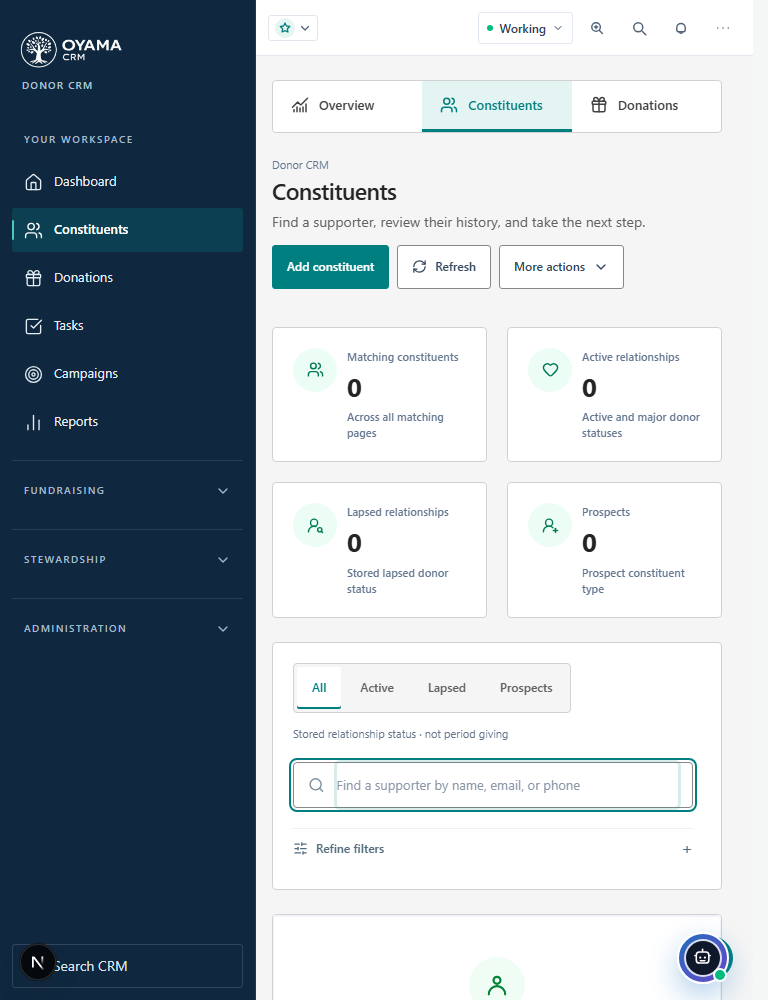
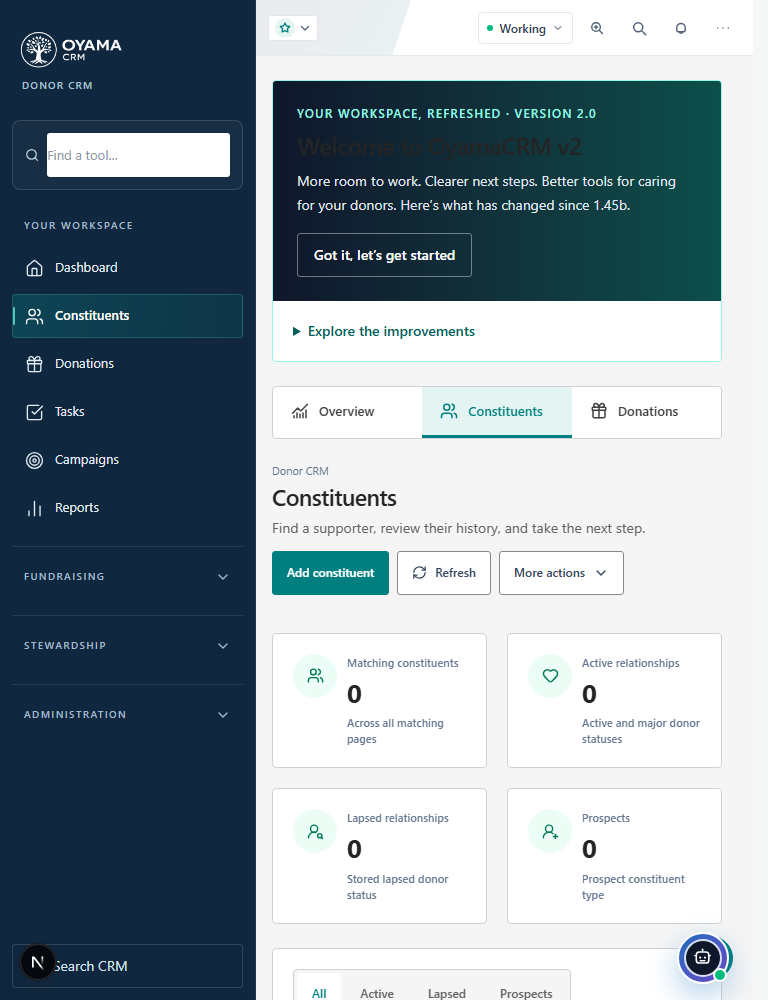
update

diff --git a/app/components/constituents/ConstituentStewardPathsPanel.tsx b/app/components/constituents/ConstituentStewardPathsPanel.tsx
@@ -1,6 +1,6 @@
 "use client";
 
-import { useCallback, useEffect, useMemo, useState } from "react";
+import { useCallback, useEffect, useMemo, useRef, useState } from "react";
 import Link from "next/link";
 import EnrollmentTasks from "./EnrollmentTasks";
 import EnrollmentHistory from "./EnrollmentHistory";
@@ -37,6 +37,8 @@ function formatDueAt(value?: string | null): string {
 
 /** Current Steward Paths and enrollment control for one constituent profile. */
 export default function ConstituentStewardPathsPanel({ constituentId }: { constituentId: string }) {
+  const requestVersion = useRef(0);
+  const enrolling = useRef(false);
   const [templates, setTemplates] = useState<PathTemplate[]>([]);
   const [enrollments, setEnrollments] = useState<PathEnrollment[]>([]);
   const [selectedPathId, setSelectedPathId] = useState("");
@@ -44,29 +46,36 @@ export default function ConstituentStewardPathsPanel({ constituentId }: { consti
   const [loading, setLoading] = useState(true);
   const [saving, setSaving] = useState(false);
   const [error, setError] = useState<string | null>(null);
+  const [loadFailed, setLoadFailed] = useState(false);
   const [notice, setNotice] = useState<string | null>(null);
 
   const load = useCallback(async () => {
+    const request = ++requestVersion.current;
     setLoading(true);
+    setLoadFailed(false);
     setError(null);
     try {
       const [templateRows, enrollmentRows] = await Promise.all([
         apiFetch<PathTemplate[]>("/api/steward-paths/templates"),
         apiFetch<PathEnrollment[]>(`/api/steward-paths/enrollments?constituentId=${encodeURIComponent(constituentId)}&limit=100`),
       ]);
-      const activeTemplates = (Array.isArray(templateRows) ? templateRows : []).filter((path) => path.status === "ACTIVE");
+      if (request !== requestVersion.current) return;
+      const activeTemplates = (Array.isArray(templateRows) ? templateRows : []).filter((path) => path.status === "ACTIVE" && path.steps.some(step => step.isActive));
       setTemplates(activeTemplates);
       setEnrollments(Array.isArray(enrollmentRows) ? enrollmentRows : []);
       setSelectedPathId((current) => current && activeTemplates.some((path) => path.id === current) ? current : activeTemplates[0]?.id ?? "");
     } catch (loadError) {
+      if (request !== requestVersion.current) return;
+      setLoadFailed(true);
       setError(loadError instanceof Error ? loadError.message : "Failed to load Steward Paths.");
     } finally {
-      setLoading(false);
+      if (request === requestVersion.current) setLoading(false);
     }
   }, [constituentId]);
 
   useEffect(() => {
     void load();
+    return () => { requestVersion.current++; };
   }, [load]);
 
   const currentEnrollments = useMemo(
@@ -77,9 +86,10 @@ export default function ConstituentStewardPathsPanel({ constituentId }: { consti
   const isAlreadyEnrolled = Boolean(selectedPath && currentEnrollments.some((enrollment) => enrollment.path.id === selectedPath.id));
 
   async function enroll(): Promise<void> {
-    if (!selectedPath || isAlreadyEnrolled) return;
+    if (!selectedPath || isAlreadyEnrolled || enrolling.current || loading) return;
     if (replaceExisting && currentEnrollments.length > 0 && !window.confirm("Replace all active or paused paths for this constituent? Their current paths will be cancelled.")) return;
 
+    enrolling.current = true;
     setSaving(true);
     setError(null);
     setNotice(null);
@@ -94,24 +104,25 @@ export default function ConstituentStewardPathsPanel({ constituentId }: { consti
     } catch (enrollError) {
       setError(enrollError instanceof Error ? enrollError.message : "Failed to enroll constituent in the selected path.");
     } finally {
+      enrolling.current = false;
       setSaving(false);
     }
   }
 
   return (
-    <section className="rounded-xl border border-slate-200 bg-white p-4 shadow-sm">
+    <section id="steward-paths" className="scroll-mt-24 rounded-xl border border-slate-200 bg-white p-4 shadow-sm">
       <div className="flex items-start justify-between gap-3">
         <div>
           <p className="text-xs font-bold uppercase tracking-wide text-slate-500">Steward Paths</p>
           <p className="mt-1 text-xs text-slate-600">Current and past relationship workflows for this constituent.</p>
         </div>
-        <button type="button" onClick={() => void load()} className="rounded-md border border-slate-300 px-2 py-1 text-[11px] font-semibold text-slate-700 hover:bg-slate-50">Refresh</button>
+        <button type="button" onClick={() => void load()} disabled={loading || saving} className="rounded-md border border-slate-300 px-2 py-1 text-[11px] font-semibold text-slate-700 hover:bg-slate-50">Refresh</button>
       </div>
 
-      {notice ? <p className="mt-3 rounded-md border border-emerald-200 bg-emerald-50 px-2.5 py-2 text-xs text-emerald-800">{notice}</p> : null}
-      {error ? <p className="mt-3 rounded-md border border-rose-200 bg-rose-50 px-2.5 py-2 text-xs text-rose-800">{error}</p> : null}
+      {notice ? <p role="status" className="mt-3 rounded-md border border-emerald-200 bg-emerald-50 px-2.5 py-2 text-xs text-emerald-800">{notice}</p> : null}
+      {error ? <p role="alert" className="mt-3 rounded-md border border-rose-200 bg-rose-50 px-2.5 py-2 text-xs text-rose-800">{error}</p> : null}
 
-      {loading ? <p className="mt-3 text-xs text-slate-500">Loading paths...</p> : (
+      {loading ? <p className="mt-3 text-xs text-slate-500">Loading paths...</p> : loadFailed ? <div className="mt-3 rounded-md border border-amber-200 bg-amber-50 p-3 text-xs text-amber-900"><p>Enrollment information is unavailable. Retry before making changes.</p><button type="button" className="donor-button mt-2" onClick={() => void load()}>Retry loading paths</button></div> : (
         <>
           <Link href={`/tasks?constituentId=${encodeURIComponent(constituentId)}`} className="mt-2 inline-flex min-h-9 items-center text-xs font-semibold text-[var(--crm-accent)] hover:underline">Review this donor’s outstanding and completed tasks →</Link>
           <div className="mt-3 space-y-2">

diff --git a/app/components/layout/ReleaseBanner.tsx b/app/components/layout/ReleaseBanner.tsx
@@ -1,0 +1,37 @@
+"use client";
+
+import { useEffect, useState } from "react";
+import Link from "next/link";
+import { useAuth } from "@/app/components/auth/AuthProvider";
+
+const improvements = [
+  ["A calmer workspace", "More breathing room, clearer navigation, responsive layouts and motion that respects your accessibility preferences."],
+  ["A dashboard built around your day", "Giving trends, new donors, staff reminders and report discovery, plus customizable widget order, visibility and sizes."],
+  ["Tables that work harder", "Spreadsheet-style cell navigation, gridlines, sticky headers, row density controls and clearer selection feedback."],
+  ["Faster donor and gift search", "Search waits for a short typing pause. Enter searches immediately, and filters keep your current scope clear."],
+  ["Easier donor follow-up", "New-donor shortcuts to giving history, tasks and path enrollment; enrollment history and linked tasks help staff see what happened."],
+  ["Reminders within reach", "Staff reminder snooze and dismiss actions, dashboard refresh, and notification refresh when you reconnect or return to the tab."],
+  ["More dependable communications", "Roomier letter and email builders, save overlap guards, preservation of edits made during email saves, clearer publish review and PDF feedback."],
+];
+
+export default function ReleaseBanner() {
+  const { user } = useAuth();
+  const key = user ? `oyama:release:2.0:${user.organizationId}:${user.id}` : null;
+  const [readyKey, setReadyKey] = useState<string | null>(null);
+  const [dismissed, setDismissed] = useState(false);
+  useEffect(() => {
+    if (!key) return;
+    try { setDismissed(localStorage.getItem(key) === "seen"); }
+    catch { setDismissed(false); }
+    setReadyKey(key);
+  }, [key]);
+  if (!key || readyKey !== key) return null;
+  if (dismissed) return <div className="mb-4 flex justify-end"><button type="button" className="text-xs font-semibold text-[var(--crm-accent)] hover:underline" onClick={() => setDismissed(false)}>What’s new in OyamaCRM v2</button></div>;
+  return <section aria-labelledby="release-v2-title" className="mb-6 overflow-hidden rounded-xl border border-teal-200 bg-white shadow-sm">
+    <div className="flex flex-wrap items-start justify-between gap-4 bg-gradient-to-r from-slate-900 to-teal-900 p-6 text-white">
+      <div className="max-w-2xl"><p className="text-xs font-semibold uppercase tracking-widest text-teal-200">Your workspace, refreshed · Version 2.0</p><h2 id="release-v2-title" className="mt-2 text-2xl font-semibold">Welcome to OyamaCRM v2</h2><p className="mt-2 text-sm leading-6 text-slate-200">More room to work. Clearer next steps. Better tools for caring for your donors. Here’s what has changed since 1.45b.</p></div>
+      <button type="button" className="min-h-11 rounded-md border border-white/40 px-4 text-sm font-semibold hover:bg-white/10 focus-visible:outline-2 focus-visible:outline-offset-4" onClick={() => { try { localStorage.setItem(key, "seen"); } catch { /* Dismiss for this session when storage is unavailable. */ } setDismissed(true); }}>Got it, let’s get started</button>
+    </div>
+    <details className="p-5"><summary className="cursor-pointer text-sm font-semibold text-teal-800">Explore the improvements</summary><div className="mt-5 grid gap-6 sm:grid-cols-2 lg:grid-cols-3">{improvements.map(([title, description]) => <div key={title}><h3 className="font-semibold text-slate-900">{title}</h3><p className="mt-2 text-sm leading-6 text-slate-600">{description}</p></div>)}</div><p className="mt-5 text-xs leading-5 text-slate-500">Availability depends on your permissions and organization setup. Scheduled workflow delivery requires a running worker. Mailing schedules and durable batch manifests remain in development.</p><Link href="/settings/about" className="mt-3 inline-block text-sm font-semibold text-teal-800 hover:underline">About this build →</Link></details>
+  </section>;
+}

diff --git a/app/components/layout/TopBar.tsx b/app/components/layout/TopBar.tsx
@@ -1297,15 +1297,15 @@ export default function TopBar({ scrolled = false, donorChromeTint, donorSidebar
 
         <div className={`oyama-reference-topbar-brand relative z-20 hidden h-full ${isDonorEnterpriseChrome ? "w-64" : "w-[520px]"} xl:block`}>
           {isDonorEnterpriseChrome ? (
-            <Link href={homeHref} className="absolute left-5 top-1/2 flex -translate-y-1/2 items-baseline gap-1.5 rounded-[2px] px-1 py-1 text-white transition-colors hover:bg-white/[0.07]" aria-label="Go to OyamaCRM v1.45b home">
+            <Link href={homeHref} className="absolute left-5 top-1/2 flex -translate-y-1/2 items-baseline gap-1.5 rounded-[2px] px-1 py-1 text-white transition-colors hover:bg-white/[0.07]" aria-label="Go to OyamaCRM v2.0 home">
               <span className="text-[15px] font-bold tracking-[-0.035em]">OyamaCRM</span>
-              <span className="rounded-[2px] bg-white/[0.1] px-1.5 py-0.5 text-[10px] font-bold tracking-wide text-[#cfe4fa] ring-1 ring-white/10">v1.45b</span>
+              <span className="rounded-[2px] bg-white/[0.1] px-1.5 py-0.5 text-[10px] font-bold tracking-wide text-[#cfe4fa] ring-1 ring-white/10">v2.0</span>
             </Link>
           ) : (
           <Link href={homeHref} className={`absolute left-8 flex shrink-0 items-center gap-2.5 rounded-2xl px-2 py-1 transition-[top,opacity,background-color,border-color] ${shellMotionClass} hover:opacity-90 ${scrolled ? "top-2.5" : "top-4"}`} aria-label="Go to workspace home">
             <Image
               src={OYAMA_PRODUCT_LOGO}
-              alt="OyamaCRM v1.45b"
+              alt="OyamaCRM v2.0"
               width={260}
               height={74}
               className={`object-contain object-left transition-[height,width,opacity] ${shellMotionClass} ${scrolled ? "h-9 w-[128px]" : "h-11 w-[166px]"}`}
@@ -1336,13 +1336,13 @@ export default function TopBar({ scrolled = false, donorChromeTint, donorSidebar
                 </svg>
               </button>
               {/* ── TopBar Brand ── */}
-              <Link href={homeHref} className={`flex min-w-0 shrink items-center rounded-xl px-1.5 py-1 transition-opacity hover:opacity-90 max-[380px]:px-1 ${isDonorEnterpriseChrome ? "text-white" : ""}`} aria-label="Go to OyamaCRM v1.45b home">
+              <Link href={homeHref} className={`flex min-w-0 shrink items-center rounded-xl px-1.5 py-1 transition-opacity hover:opacity-90 max-[380px]:px-1 ${isDonorEnterpriseChrome ? "text-white" : ""}`} aria-label="Go to OyamaCRM v2.0 home">
                 {isDonorEnterpriseChrome ? (
-                  <span className="inline-flex items-baseline gap-1 whitespace-nowrap text-sm font-bold tracking-[-0.035em] text-white max-[380px]:text-xs">OyamaCRM <span className="text-[9px] font-bold tracking-wide text-emerald-200">v1.45b</span></span>
+                  <span className="inline-flex items-baseline gap-1 whitespace-nowrap text-sm font-bold tracking-[-0.035em] text-white max-[380px]:text-xs">OyamaCRM <span className="text-[9px] font-bold tracking-wide text-emerald-200">v2.0</span></span>
                 ) : (
                   <Image
                     src={OYAMA_PRODUCT_LOGO}
-                    alt="OyamaCRM v1.45b"
+                    alt="OyamaCRM v2.0"
                     width={144}
                     height={48}
                     className="block h-8 w-[116px] object-contain object-left transition-[width,height] duration-200 max-[430px]:w-[96px] max-[380px]:h-7 max-[380px]:w-[76px]"

diff --git a/app/components/layout/DonorMegaMenu.tsx b/app/components/layout/DonorMegaMenu.tsx
@@ -23,12 +23,15 @@ export default function DonorMegaMenu({ chromeTint }: DonorMegaMenuProps) {
   const pathname = usePathname();
   const { user } = useAuth();
   const { qbEnabled } = usePlugins();
+  const [toolSearch, setToolSearch] = useState("");
   const [mobileOpen, setMobileOpen] = useState(false);
   const dialogRef = useRef<HTMLDivElement>(null);
   const groups = useMemo(() => buildDonorDailyNavigation({ qbEnabled }).map((group) => ({
     ...group,
     items: group.items.filter((item) => isDonorNavigationItemVisible(item, user)),
   })).filter((group) => group.items.length), [qbEnabled, user]);
+  const searchTerms = toolSearch.toLowerCase().trim().split(/\s+/).filter(Boolean);
+  const filteredGroups = groups.map(group => ({ ...group, items: group.items.filter(item => searchTerms.every(term => `${item.label} ${item.description ?? ""} ${item.href} ${group.label}`.toLowerCase().includes(term))) })).filter(group => group.items.length);
   const activeItem = resolveDonorNavigationActiveItem(groups, pathname);
 
   useDialogFocus(dialogRef, mobileOpen, () => setMobileOpen(false));
@@ -57,8 +60,13 @@ export default function DonorMegaMenu({ chromeTint }: DonorMegaMenuProps) {
     );
     return (
       <nav aria-label={mobile ? "Mobile Donor CRM" : "Donor CRM"} className="oyama-reference-nav min-h-0 flex-1 space-y-4 overflow-y-auto p-3">
-        {groups.map((group) => group.collapsible ? (
-          <details key={`${group.id}-${pathname}`} open={group.items.some((item) => item.id === activeItem)} className="group border-t border-white/10 pt-2">
+        <div className="donor-tool-search">
+          <label className="sr-only" htmlFor={mobile ? "mobile-tool-search" : "desktop-tool-search"}>Find a Donor CRM tool</label>
+          <div className="flex items-center gap-2"><Search size={16} aria-hidden="true" /><input id={mobile ? "mobile-tool-search" : "desktop-tool-search"} type="search" placeholder="Find a tool…" value={toolSearch} onChange={event => setToolSearch(event.target.value)} onKeyDown={event => { if (event.key === "Escape" && toolSearch) { event.preventDefault(); event.stopPropagation(); setToolSearch(""); } }} /></div>
+          {toolSearch && <p role="status" className="mt-2 text-xs">{filteredGroups.reduce((count, group) => count + group.items.length, 0)} matching tools · <button type="button" onClick={() => setToolSearch("")} className="underline">Clear</button></p>}
+        </div>
+        {filteredGroups.map((group) => group.collapsible ? (
+          <details key={`${group.id}-${pathname}`} open={Boolean(toolSearch.trim()) || group.items.some((item) => item.id === activeItem)} className="group border-t border-white/10 pt-2">
             <summary tabIndex={0} className="flex min-h-11 cursor-pointer list-none items-center justify-between rounded-lg px-3 text-[10px] font-semibold uppercase tracking-[0.14em] text-slate-400 hover:bg-white/5 hover:text-slate-200 focus-visible:outline-none focus-visible:ring-2 focus-visible:ring-emerald-300 [&::-webkit-details-marker]:hidden">
               {group.label}<ChevronDown className="h-4 w-4 transition-transform group-open:rotate-180" aria-hidden="true" />
             </summary>

diff --git a/app/components/settings/AboutPage.tsx b/app/components/settings/AboutPage.tsx
@@ -6,7 +6,7 @@
 import React from "react";
 
 const CURRENT_YEAR = new Date().getFullYear();
-const VERSION = "1.45b";
+const VERSION = "2.0";
 
 /** A soft-ruled section divider with a title. */
 function Section({ title, children }: { title: string; children: React.ReactNode }) {
@@ -35,12 +35,12 @@ export default function AboutPage() {
       {/* ── Header ──────────────────────────────────────────────────── */}
       <div className="flex items-start gap-5">
         <div className="flex-1">
-          <h1 className="text-2xl font-bold text-gray-900">OyamaCRM v1.45b</h1>
+          <h1 className="text-2xl font-bold text-gray-900">OyamaCRM v2.0</h1>
           <p className="mt-1 text-sm text-gray-500">
             Version {VERSION} &nbsp;·&nbsp; Nonprofit CRM Platform
           </p>
           <p className="mt-2 text-sm text-gray-600 leading-relaxed">
-            OyamaCRM v1.45b is an integrated nonprofit management platform covering donor
+            OyamaCRM v2.0 is an integrated nonprofit management platform covering donor
             management, constituent engagement, event management, and AI-powered
             stewardship — built to serve pregnancy centers and nonprofits of every size.
           </p>
@@ -52,7 +52,7 @@ export default function AboutPage() {
         <div className="bg-gray-50 rounded-lg p-4 space-y-1.5">
           <LicenseTerm label="Software Author" value="James Knox" />
           <LicenseTerm label="Copyright" value={`© ${CURRENT_YEAR} James Knox. All rights reserved.`} />
-          <LicenseTerm label="Platform" value="OyamaCRM v1.45b — Nonprofit CRM Platform" />
+          <LicenseTerm label="Platform" value="OyamaCRM v2.0 — Nonprofit CRM Platform" />
           <LicenseTerm label="Version" value={VERSION} />
         </div>
       </Section>
@@ -62,7 +62,7 @@ export default function AboutPage() {
         <div className="bg-green-50 border border-green-200 rounded-lg p-5 space-y-4">
           <div>
             <p className="text-sm font-semibold text-green-800 uppercase tracking-wide">
-              OyamaCRM v1.45b Free Use License — Nonprofit Edition
+              OyamaCRM v2.0 Free Use License — Nonprofit Edition
             </p>
             <p className="mt-1 text-xs text-green-700">Effective for all versions from 1.0.0 onwards</p>
           </div>

diff --git a/app/components/dashboard/NewDonorsWidget.tsx b/app/components/dashboard/NewDonorsWidget.tsx
@@ -37,7 +37,7 @@ export default function NewDonorsWidget({ refreshVersion = 0 }: { refreshVersion
         <p className="text-xs text-slate-500">{data.total.toLocaleString()} new donors</p>
         {!data.items.length ? <p className="py-4 text-sm text-slate-500">No first gifts recorded for this month.</p> : <ul className="max-h-80 divide-y divide-slate-100 overflow-y-auto">{data.items.map((donor) => <li key={donor.id} className="flex justify-between gap-3 py-3 text-sm">
           <Link className="font-semibold text-[var(--crm-accent)] hover:underline" href={`/constituents/${encodeURIComponent(donor.id)}`}>{donor.firstName} {donor.lastName}</Link>
-          <div className="flex flex-wrap justify-end gap-3"><Link className="text-xs font-semibold text-[var(--crm-accent)] hover:underline" href={`/tasks?constituentId=${encodeURIComponent(donor.id)}`}>Follow-ups</Link><Link className="text-xs font-semibold text-[var(--crm-accent)] hover:underline" href={`/donations?constituentId=${encodeURIComponent(donor.id)}&allYears=1`}>Giving history</Link><span className="text-xs text-slate-500">{new Date(donor.firstGiftDate).toLocaleDateString("en-US", { timeZone: "UTC", month: "short", day: "numeric" })}</span></div>
+          <div className="flex flex-wrap justify-end gap-3"><Link className="text-xs font-semibold text-[var(--crm-accent)] hover:underline" href={`/constituents/${encodeURIComponent(donor.id)}#steward-paths`}>Enroll in a path</Link><Link className="text-xs font-semibold text-[var(--crm-accent)] hover:underline" href={`/tasks?constituentId=${encodeURIComponent(donor.id)}`}>Follow-ups</Link><Link className="text-xs font-semibold text-[var(--crm-accent)] hover:underline" href={`/donations?constituentId=${encodeURIComponent(donor.id)}&allYears=1`}>Giving history</Link><span className="text-xs text-slate-500">{new Date(donor.firstGiftDate).toLocaleDateString("en-US", { timeZone: "UTC", month: "short", day: "numeric" })}</span></div>
         </li>)}</ul>}
         {data.totalPages > 1 && <div className="mt-3 flex items-center gap-3 text-xs"><button className="donor-button" disabled={page <= 1} onClick={() => setPage(page - 1)}>Previous</button><span>Page {page} of {data.totalPages}</span><button className="donor-button" disabled={page >= data.totalPages} onClick={() => setPage(page + 1)}>Next</button></div>}
       </>}

diff --git a/app/constituents/page.tsx b/app/constituents/page.tsx
@@ -236,7 +236,7 @@ function ConstituentsWorkspace() {
       </section>
       <CRMFilterBar><div className="donor-browse-filters">
         <div className="donor-browse-filter-heading"><DonorQuickViews label="Constituent quick views" items={([["all", "All"], ["active", "Active"], ["lapsed", "Lapsed"], ["prospects", "Prospects"]] as const).map(([view, label]) => ({ label, active: activeDirectoryView === view, onClick: () => applyDirectoryView(view) }))} /><span className="donor-scope-note">Stored relationship status · not period giving</span></div>
-        <label className="donor-browse-search"><Search size={18} aria-hidden="true" /><span className="sr-only">Search constituents</span><DebouncedSearchInput id="constituent-search" placeholder="Find a supporter by name, email, or phone" value={search} onSearch={(value) => changeFilters({ search: value })} /></label>
+        <label className="donor-browse-search"><Search size={18} aria-hidden="true" /><span className="sr-only">Search constituents</span><DebouncedSearchInput resetKey={params.toString()} id="constituent-search" placeholder="Find a supporter by name, email, or phone" value={search} onSearch={(value) => changeFilters({ search: value })} /></label>
         <DonorFilterPanel count={[typeFilter, statusFilter].filter(Boolean).length}>
           <label>Constituent type<select value={typeFilter} onChange={(event) => changeFilters({ type: event.target.value })}><option value="">All types</option>{CONSTITUENT_TYPES.map((type) => <option key={type} value={type}>{typeLabel(type)}</option>)}</select></label>
           <label>Donor status<select value={statusFilter} onChange={(event) => changeFilters({ status: event.target.value })}><option value="">All statuses</option>{DONOR_STATUSES.map((status) => <option key={status} value={status}>{status === "MAJOR_DONOR" ? "Major donor" : status.charAt(0) + status.slice(1).toLowerCase()}</option>)}</select></label>

diff --git a/app/components/donor-workspace/DonorRecordActions.tsx b/app/components/donor-workspace/DonorRecordActions.tsx
@@ -22,5 +22,5 @@ export default function DonorRecordActions({ label, children }: { label: string;
     const bounds = button.current!.getBoundingClientRect(); const height = Math.min(420, window.innerHeight - 24);
     const top = bounds.bottom + height + 8 <= window.innerHeight ? bounds.bottom + 6 : Math.max(8, bounds.top - height - 6);
     setPosition({ top, left: Math.max(8, Math.min(bounds.right - 260, window.innerWidth - 268)), maxHeight: Math.min(height, window.innerHeight - top - 8) });
-  }}><MoreHorizontal size={18} aria-hidden="true" /><span className="sr-only">Actions</span></button>{position && createPortal(<div ref={panel} id={id} role="group" aria-label={label} tabIndex={-1} className="donor-record-actions-panel" style={{ top: position.top, left: position.left, maxHeight: position.maxHeight }} onBlur={(event) => { if (event.relatedTarget && !event.currentTarget.contains(event.relatedTarget as Node) && event.relatedTarget !== button.current) close(); }} onClick={(event) => { const action = (event.target as HTMLElement).closest("a,button"); if (action && !action.hasAttribute("disabled")) close(true); }}>{children}</div>, document.body)}</>;
+  }}><MoreHorizontal size={18} aria-hidden="true" /><span className="sr-only">Actions</span></button>{position && createPortal(<div ref={panel} id={id} role="group" aria-label={label} tabIndex={-1} className="donor-record-actions-panel" style={{ top: position.top, left: position.left, maxHeight: position.maxHeight }} onBlur={(event) => { if (event.relatedTarget && !event.currentTarget.contains(event.relatedTarget as Node) && event.relatedTarget !== button.current) close(); }} onClick={(event) => { const action = (event.target as HTMLElement).closest("a,button"); if (action && !action.hasAttribute("disabled")) close(); }}>{children}</div>, document.body)}</>;
 }

diff --git a/app/donations/page.tsx b/app/donations/page.tsx
@@ -477,7 +477,7 @@ function DonationsWorkspace() {
           { label: "Completed", active: status === "COMPLETED" && !acknowledgmentFilter, onClick: () => changeFilters({ status: "COMPLETED", acknowledgment: null }) },
           { label: "Pending", active: status === "PENDING" && !acknowledgmentFilter, onClick: () => changeFilters({ status: "PENDING", acknowledgment: null }) },
         ]} /><span className="donor-scope-note">{periodLabel}</span></div>
-        <label className="donor-browse-search"><Search size={18} aria-hidden="true" /><span className="sr-only">Search donations by donor name or email</span><DebouncedSearchInput placeholder="Find gifts by supporter name or email" value={search} onSearch={(value) => changeFilters({ search: value })} /></label>
+        <label className="donor-browse-search"><Search size={18} aria-hidden="true" /><span className="sr-only">Search donations by donor name or email</span><DebouncedSearchInput resetKey={searchParams.toString()} placeholder="Find gifts by supporter name or email" value={search} onSearch={(value) => changeFilters({ search: value })} /></label>
         <DonorFilterPanel count={[status, allYears || from !== defaultRange.from || to !== defaultRange.to, campaignIdFilter, constituentIdFilter].filter(Boolean).length}>
           <label>Donation status<select value={status} onChange={(event) => changeFilters({ status: event.target.value, acknowledgment: null })}><option value="">All statuses</option><option value="COMPLETED">Completed</option><option value="PENDING">Pending</option><option value="FAILED">Failed</option><option value="REFUNDED">Refunded</option></select></label>
           <label>From date<input type="date" disabled={allYears} value={from} onChange={(event) => changeFilters({ from: event.target.value })} /></label>

diff --git a/app/components/layout/reference-shell.css b/app/components/layout/reference-shell.css
@@ -157,3 +157,21 @@
   .oyama-reference-shared-sidebar,
   .oyama-reference-nav-item { transition: none !important; }
 }
+
+/* Donor v2 command chrome: diagonal brand cut, quiet working controls. */
+.oyama-reference-topbar[data-donor-topbar="true"] { box-shadow: 0 2px 14px #10283f10 !important; border-bottom: 1px solid #dce5eb; }
+.oyama-reference-topbar[data-donor-topbar="true"]::before { content:""; position:absolute; inset:0 auto 0 0; width:256px; background:linear-gradient(120deg,#10283f 20%,#126b78); clip-path:polygon(0 0,100% 0,88% 100%,0 100%); pointer-events:none; }
+.oyama-reference-topbar[data-donor-topbar="true"] .oyama-reference-topbar-brand a,
+.oyama-reference-topbar[data-donor-topbar="true"] .oyama-reference-topbar-brand a > span { color:white; }
+.donor-tool-search { padding:12px; border:1px solid #ffffff24; border-radius:8px; background:#ffffff08; color:#c2d9e5; }
+.donor-tool-search input { width:100%; min-width:0; border:0; outline:0; background:transparent; color:white; font-size:13px; min-height:28px; }
+.donor-tool-search input::placeholder { color:#b5cad7; }
+.donor-tool-search:focus-within { border-color:#71d9ce; box-shadow:0 0 0 2px #71d9ce30; }
+.oyama-reference-nav-item { border:1px solid transparent; }
+.oyama-reference-nav-item[aria-current="page"] { border-color:#71d9ce35; background:linear-gradient(100deg,#087f8055,#087f8025); }
+@media (max-width:1279px) {
+ .oyama-reference-topbar[data-donor-topbar="true"]::before { width:155px; opacity:.09; }
+}
+@media (prefers-reduced-motion:no-preference) {
+ .oyama-reference-nav-item { transition:background-color 160ms ease,border-color 160ms ease; }
+}

diff --git a/app/components/donor-workspace/DebouncedSearchInput.tsx b/app/components/donor-workspace/DebouncedSearchInput.tsx
@@ -3,11 +3,12 @@
 import { useEffect, useRef, useState } from "react";
 
 /** Keep typing local; only settled searches change the URL and trigger API reads. */
-export default function DebouncedSearchInput({ value, onSearch, placeholder, id }: {
+export default function DebouncedSearchInput({ value, onSearch, placeholder, id, resetKey }: {
   value: string;
   onSearch: (value: string) => void;
   placeholder: string;
   id?: string;
+  resetKey?: string;
 }) {
   const [draft, setDraft] = useState(value);
   const timer = useRef<ReturnType<typeof setTimeout> | null>(null);
@@ -28,7 +29,7 @@ export default function DebouncedSearchInput({ value, onSearch, placeholder, id 
   useEffect(() => {
     cancel();
     setDraft(value);
-  }, [value]);
+  }, [value, resetKey]);
   useEffect(() => () => cancel(), []);
 
   return <input id={id} type="search" value={draft} placeholder={placeholder}

diff --git a/app/lib/system-status.ts b/app/lib/system-status.ts
@@ -54,8 +54,8 @@ export const OVERALL_READINESS_SCORE = 80;
  */
 export function getPublicBuildInfo(env: NodeJS.ProcessEnv = process.env): PublicBuildInfo {
   return {
-    appName: env.NEXT_PUBLIC_APP_NAME ?? env.APP_NAME ?? "OyamaCRM v1.45b",
-    version: env.NEXT_PUBLIC_APP_VERSION ?? env.APP_VERSION ?? "1.45b",
+    appName: env.NEXT_PUBLIC_APP_NAME ?? env.APP_NAME ?? "OyamaCRM v2.0",
+    version: env.NEXT_PUBLIC_APP_VERSION ?? env.APP_VERSION ?? "2.0",
     buildDate: env.NEXT_PUBLIC_BUILD_DATE ?? env.BUILD_DATE ?? AUDIT_DATE,
     gitCommit: env.NEXT_PUBLIC_GIT_COMMIT ?? env.GIT_COMMIT ?? "local-dev",
     releaseChannel: env.NEXT_PUBLIC_RELEASE_CHANNEL ?? env.RELEASE_CHANNEL ?? "development",
